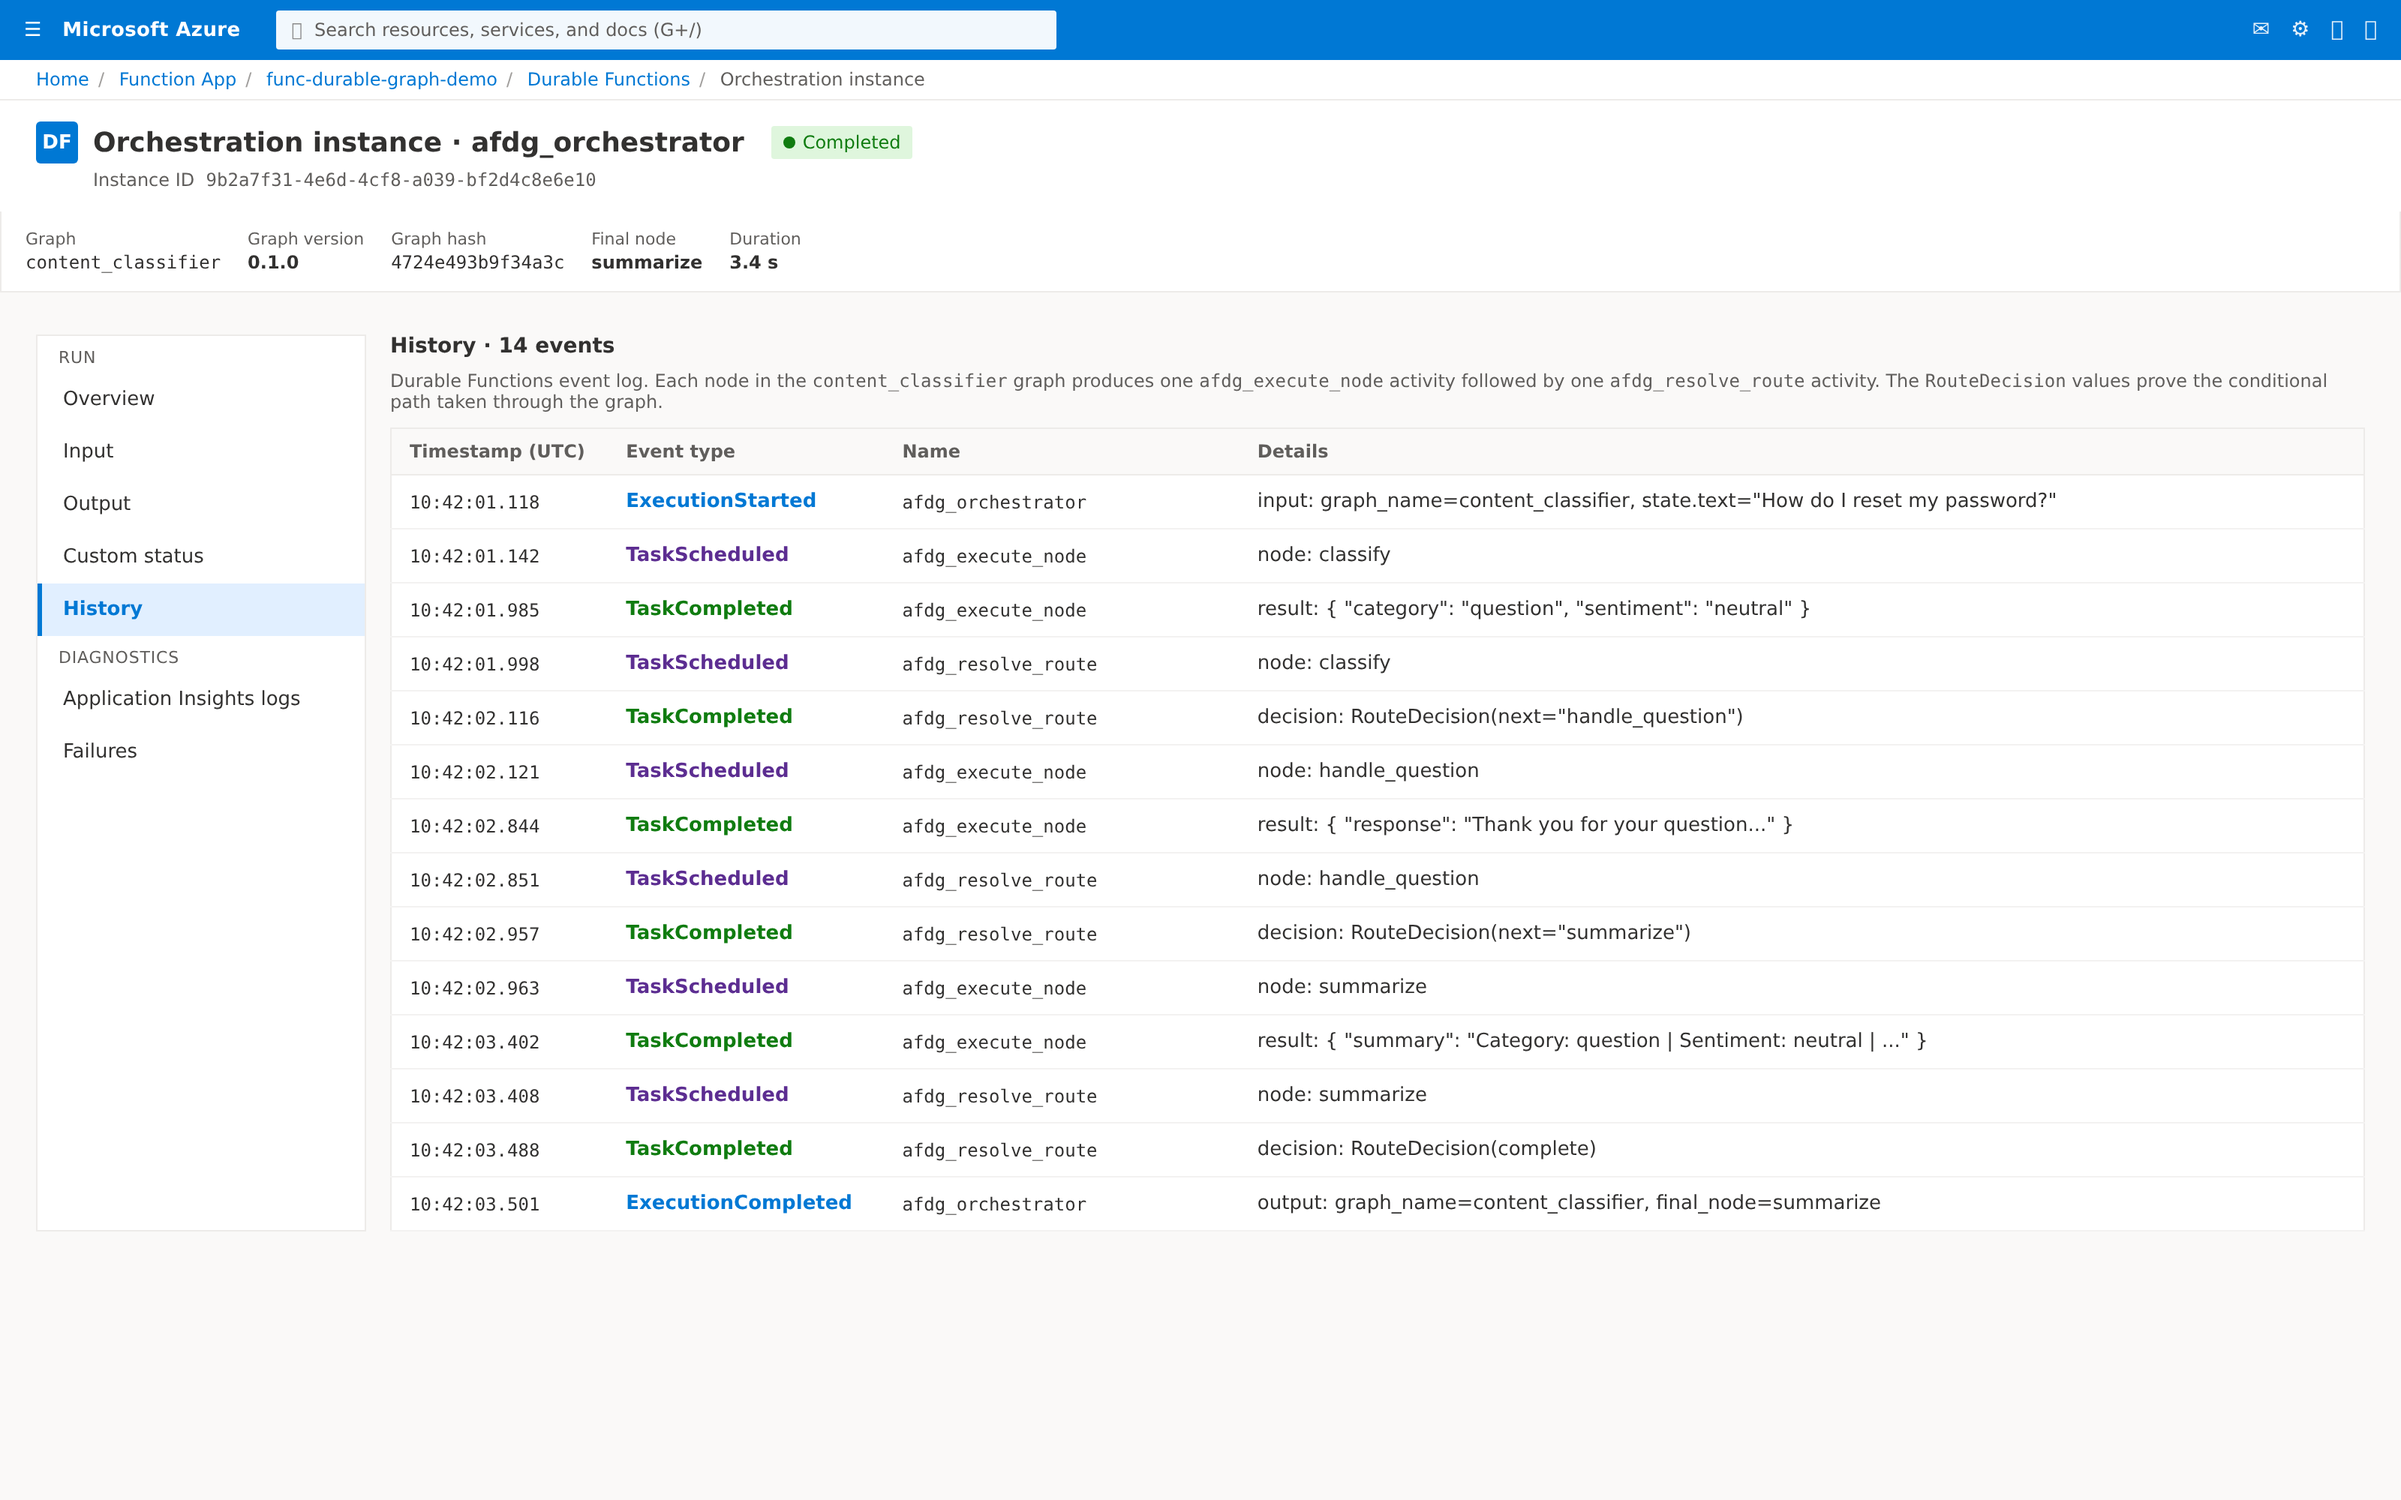
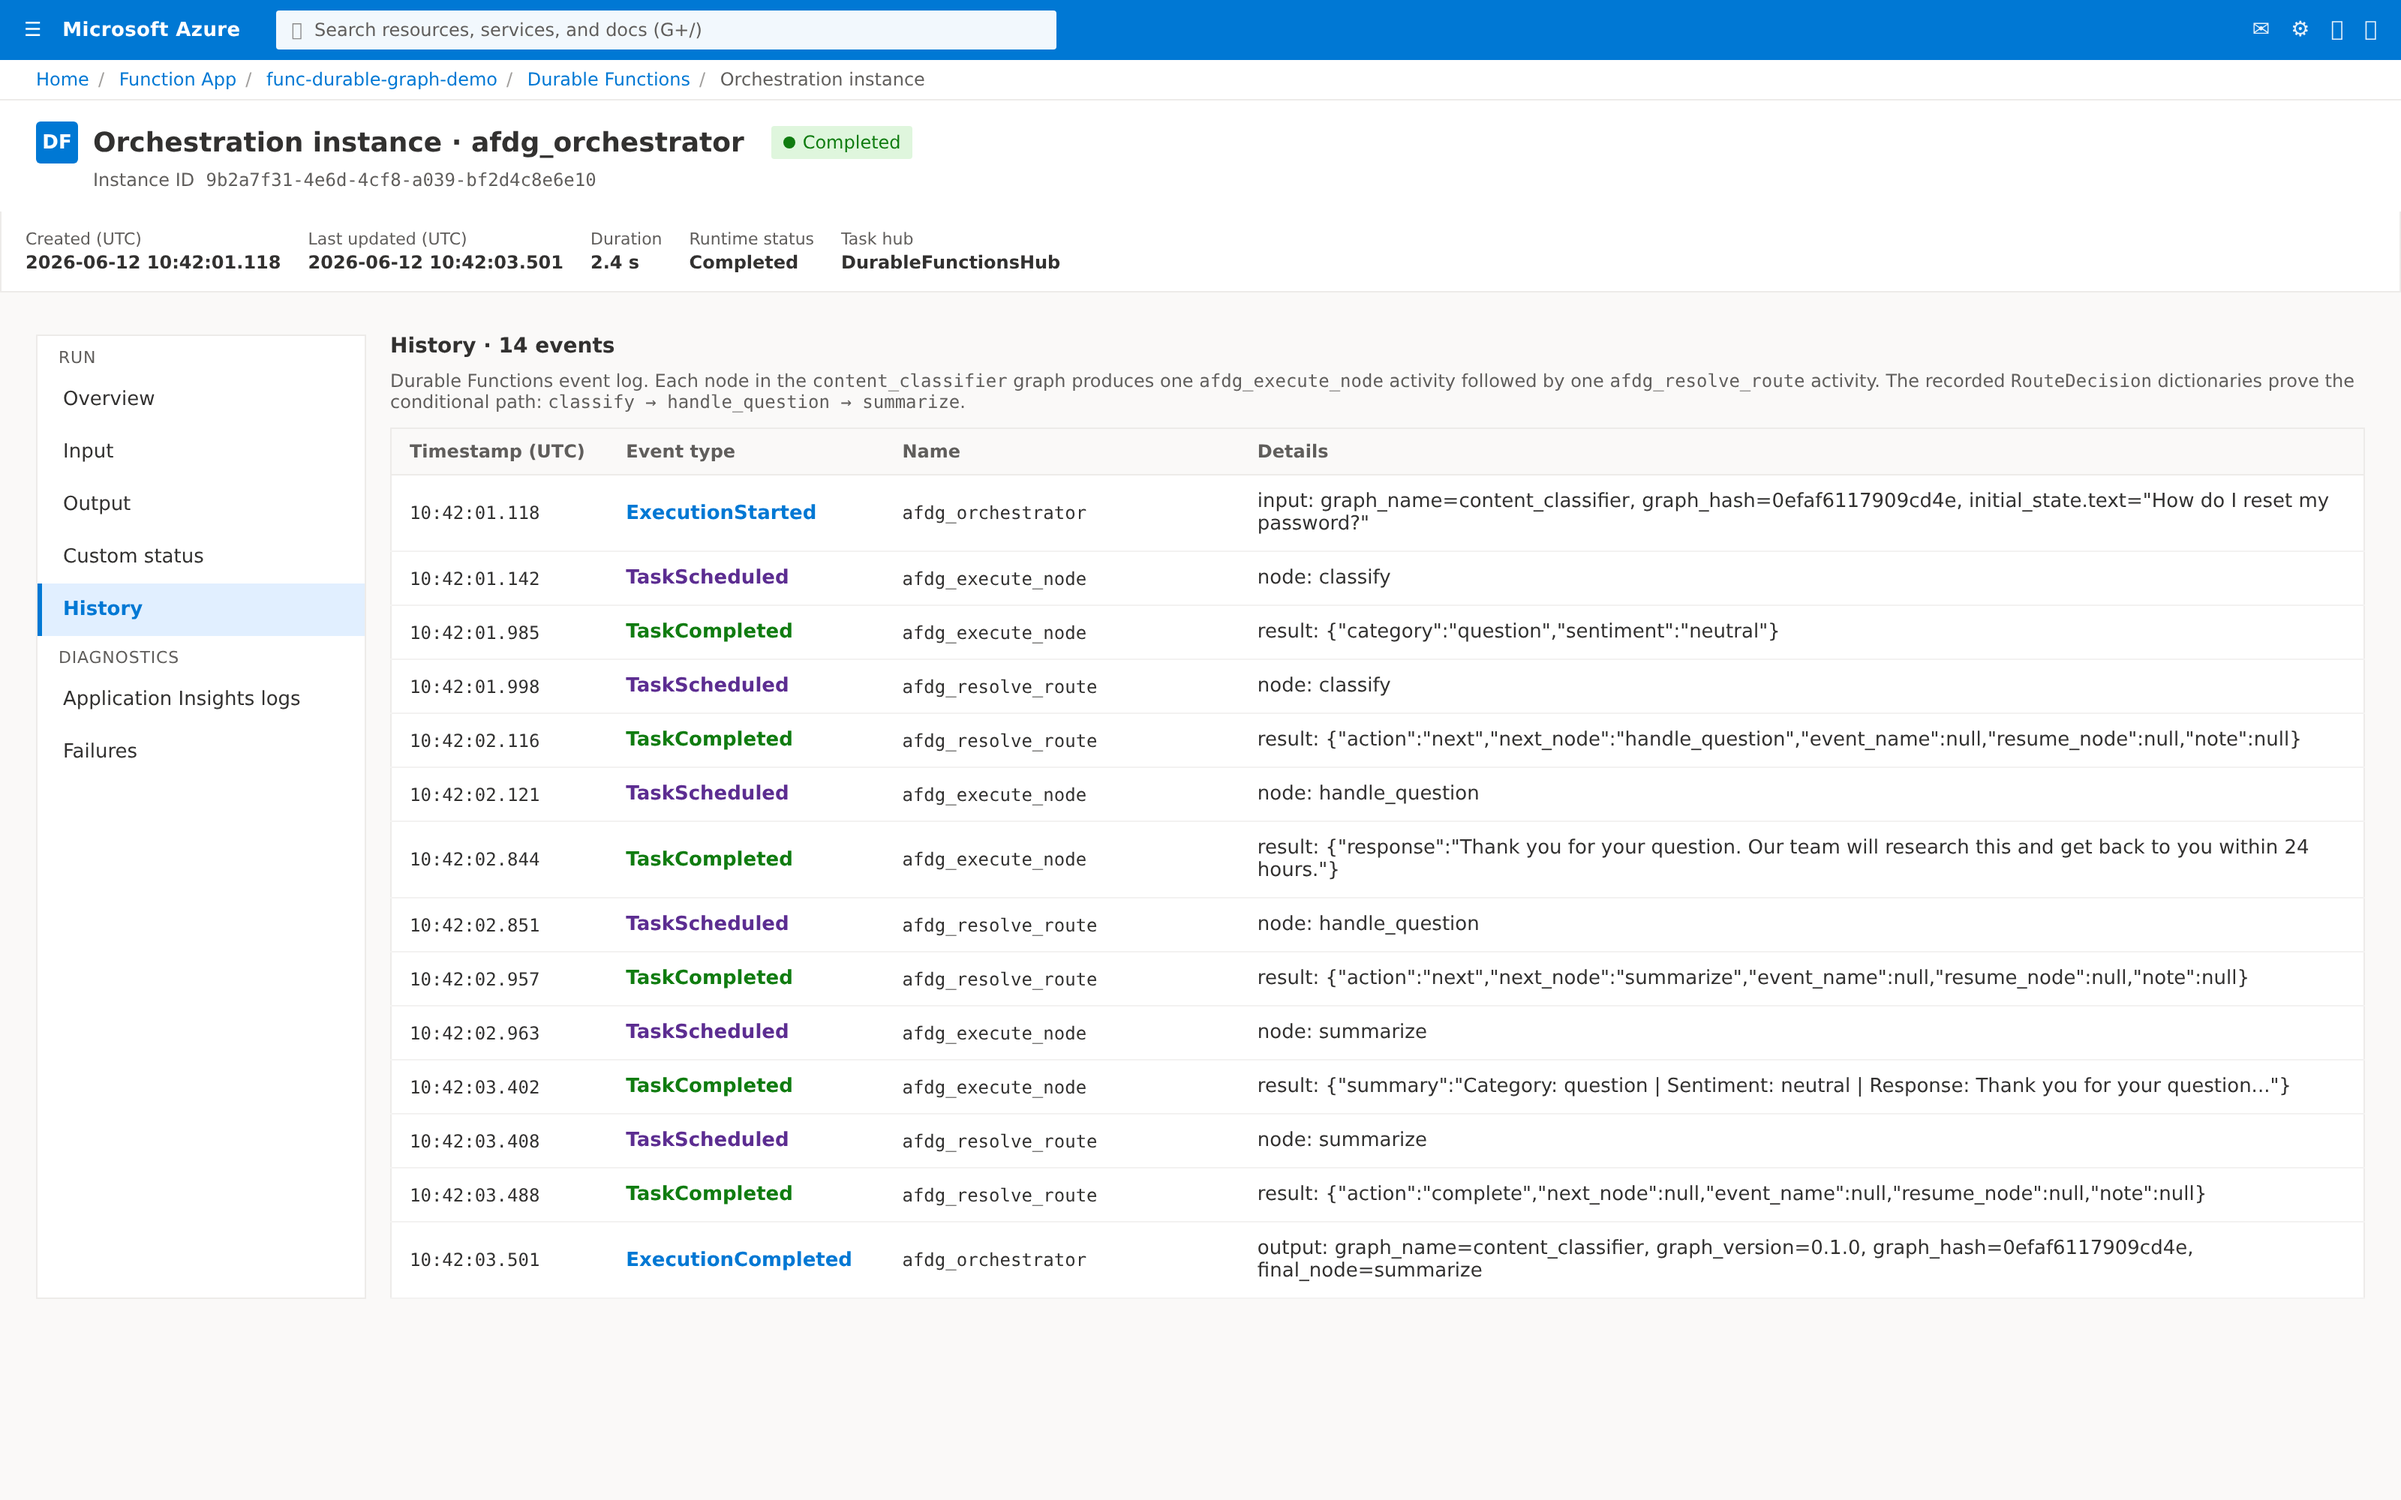
docs(portal): align Portal screenshots with orchestrator source of truth (#53)
Address Oracle BLOCK review on PR #54:

- Shot #1 (Instances list): Custom status column now shows the real JSON
  dict the orchestrator writes via context.set_custom_status() in
  app.py:180-187 ({graph_name, graph_version, graph_hash, current_node}),
  truncated with ellipsis as the Portal does. Removed the fabricated
  'ticket_router / respond' slash format.

- Shot #2 (Instance Detail): Output panel now renders only the
  orchestrator's actual return value per app.py:211-217
  ({graph_name, graph_version, graph_hash, final_node, state}), not the
  GET /api/runs envelope. Removed invented 'Graph hash' chip from the
  property bar (real Portal shows Created, Last updated, Duration,
  Runtime status, Task hub).

- Shot #3 (History): Removed invented top property bar fields
  (Graph, Graph version, Graph hash, Final node) and matched real Portal
  property bar. Route activity results now show the real serialized
  RouteDecision dict produced by model_dump(mode='python') in
  registry.py:112 ({action, next_node, event_name, resume_node, note}),
  not the abbreviated RouteDecision(next=...) repr. Use the real
  graph_hash value (0efaf6117909cd4e) computed from the content_classifier
  manifest, not a placeholder.

- ticket_router graph_hash updated to the real value (e9b1e3988da5c068)
  for handlers placed in function_app.py as the quickstart instructs.

- Narrative tweaks: Step 9 in getting-started.md now describes Custom
[…]

diff --git a/docs/getting-started.md b/docs/getting-started.md
@@ -168,18 +168,20 @@ Once your Function App is deployed to Azure, the same graph runs appear in the
 healthy without pulling logs.
 
 In the **Orchestrations** tab, every graph run shows up as an
-`afdg_orchestrator` instance. The **Custom status** column carries the graph
-name and the node that was running at the last checkpoint, so you can see at a
-glance which graphs are active.
+`afdg_orchestrator` instance. The **Custom status** column holds the JSON
+dictionary that the orchestrator sets after every step
+(`graph_name`, `graph_version`, `graph_hash`, `current_node`), so you can see
+at a glance which graph each instance is running and where it is.
 
-![Durable Functions Orchestrations list filtered to afdg_orchestrator instances, all Completed](assets/portal/getting-started-instances.png)
+![Durable Functions Orchestrations list showing afdg_orchestrator instances with a JSON Custom status dictionary for the ticket_router graph](assets/portal/getting-started-instances.png)
 
-Drilling into an instance reveals the orchestrator **Output** — and the
-`output.graph_name` and `output.state` fields are exactly the shape returned by
-`GET /api/runs/{instance_id}`. This is the same JSON your client code consumes,
-captured by Durable Functions without any extra logging.
+Drilling into an instance reveals the orchestrator **Output** — the value
+returned by `afdg_orchestrator` on completion, with top-level fields
+`graph_name`, `graph_version`, `graph_hash`, `final_node`, and `state`.
+This same value is surfaced verbatim as the `output` field of
+`GET /api/runs/{instance_id}`.
 
-![Orchestration instance detail showing Output JSON with graph_name="ticket_router" and the final state](assets/portal/getting-started-instance-detail.png)
+![Orchestration instance detail Output panel showing the orchestrator return value with graph_name="ticket_router", final_node="respond", and the final state](assets/portal/getting-started-instance-detail.png)
 
 !!! note
     These screenshots show the Azure Portal **Durable Functions** blade for a

diff --git a/docs/examples/content_classifier.md b/docs/examples/content_classifier.md
@@ -209,13 +209,14 @@ Expected final state (for a question):
 
 The conditional routing is visible in the Durable Functions **History** view
 for any run. Each node produces one `afdg_execute_node` activity followed by
-one `afdg_resolve_route` activity, and the `RouteDecision` returned by
-`route_after_classify` is recorded as the result of the route activity.
+one `afdg_resolve_route` activity, and the `RouteDecision` dictionary returned
+by `route_after_classify` is recorded verbatim as the result of the route
+activity.
 
 For an input of `"How do I reset my password?"`, the recorded path is
 `classify → handle_question → summarize`:
 
-![Durable Functions orchestration history for content_classifier showing 14 events including RouteDecision(next="handle_question") and RouteDecision(complete)](../assets/portal/content-classifier-history.png)
+![Durable Functions History view for a content_classifier run taking the question branch (classify → handle_question → summarize), showing 14 events with serialized RouteDecision dictionaries](../assets/portal/content-classifier-history.png)
 
 You can use the same view to verify other branches: a complaint-style input
 takes the `handle_complaint` path and a generic message takes
